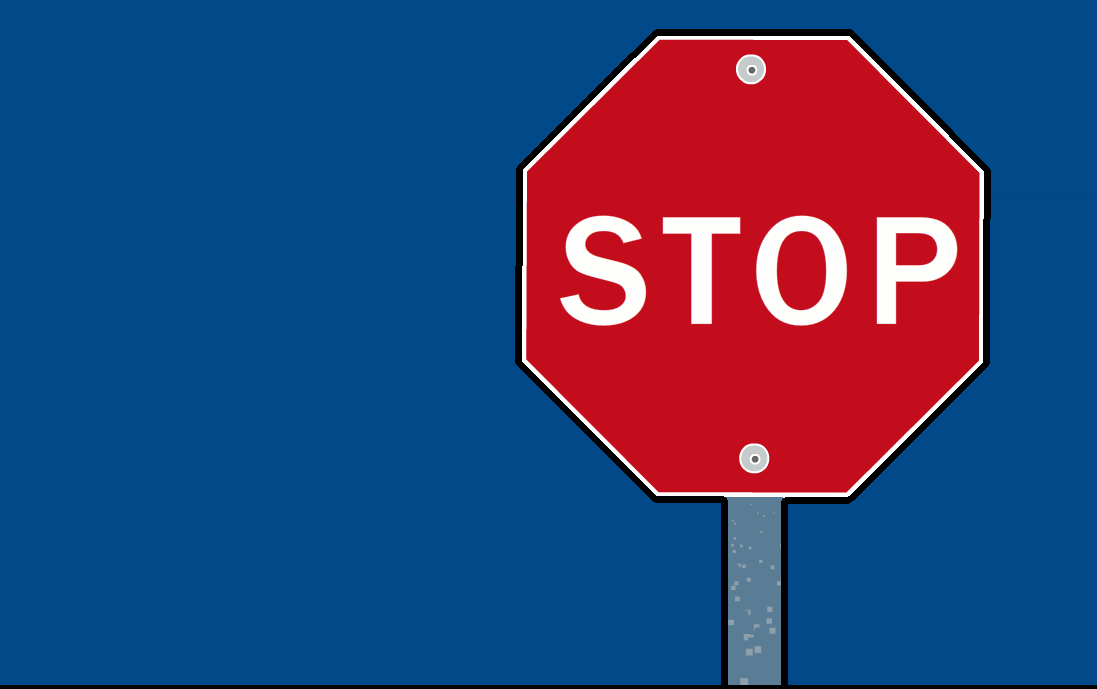
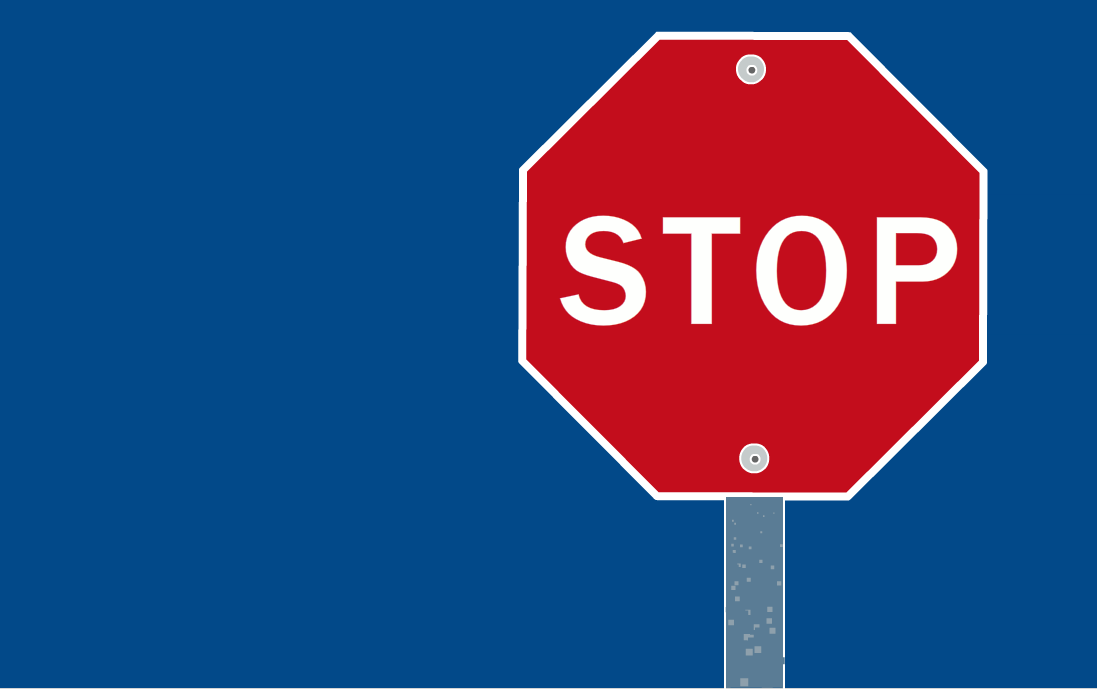
n

diff --git a/new.py b/new.py
@@ -6,7 +6,7 @@ import os
 img = cv2.imread("s.png")
 #img=cv2.Canny(img, 200, 300)
 imgray = cv2.cvtColor(img,cv2.COLOR_BGR2GRAY)
-ret,thresh = cv2.threshold(imgray,127,255,cv2.THRESH_BINARY)
+ret,thresh = cv2.threshold(imgray,127,255,-1)
 #th3 = cv2.adaptiveThreshold(imgray,255,cv2.ADAPTIVE_THRESH_GAUSSIAN_C,cv2.THRESH_BINARY,11,2)
 im2, contours, hierarchy = cv2.findContours(thresh,cv2.RETR_EXTERNAL,cv2.CHAIN_APPROX_NONE)
 cv2.drawContours(img, contours, -1, (0,0,0), 5)
